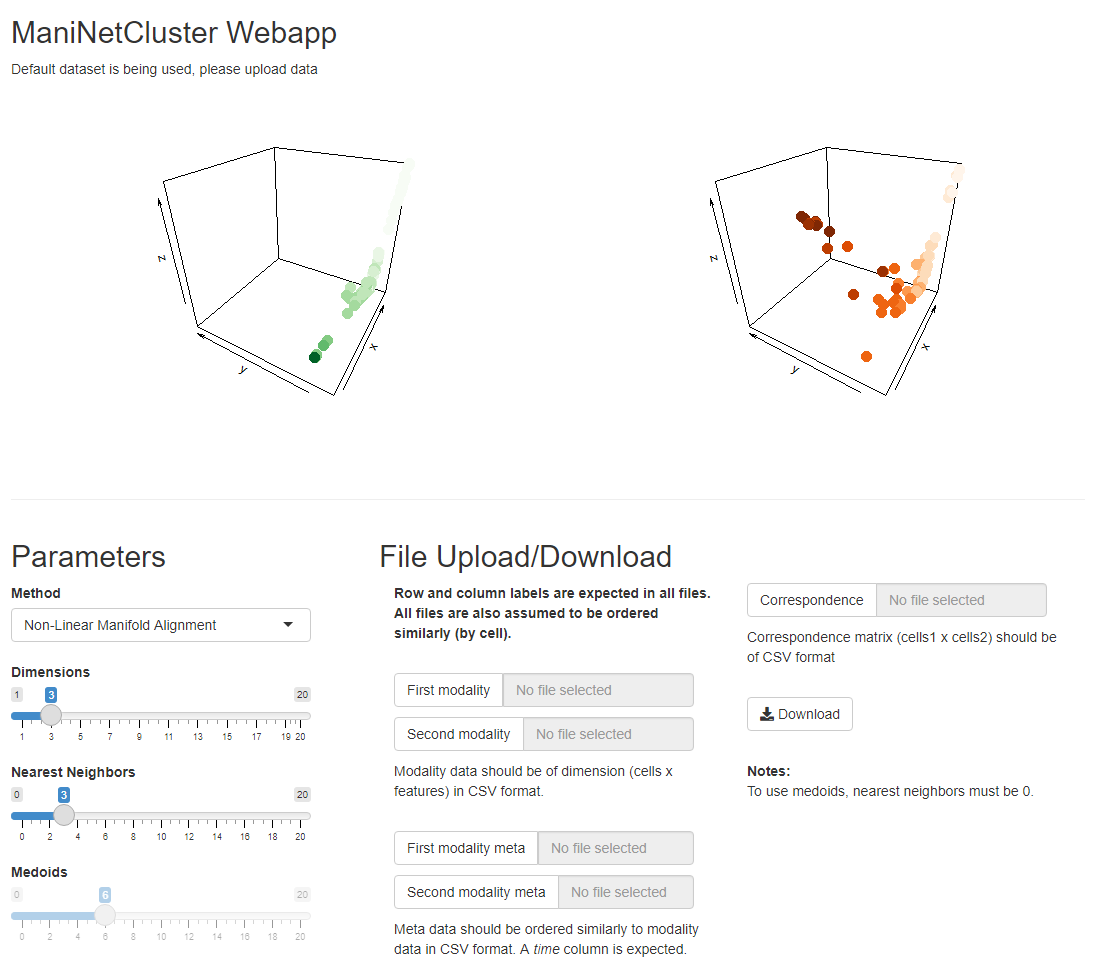
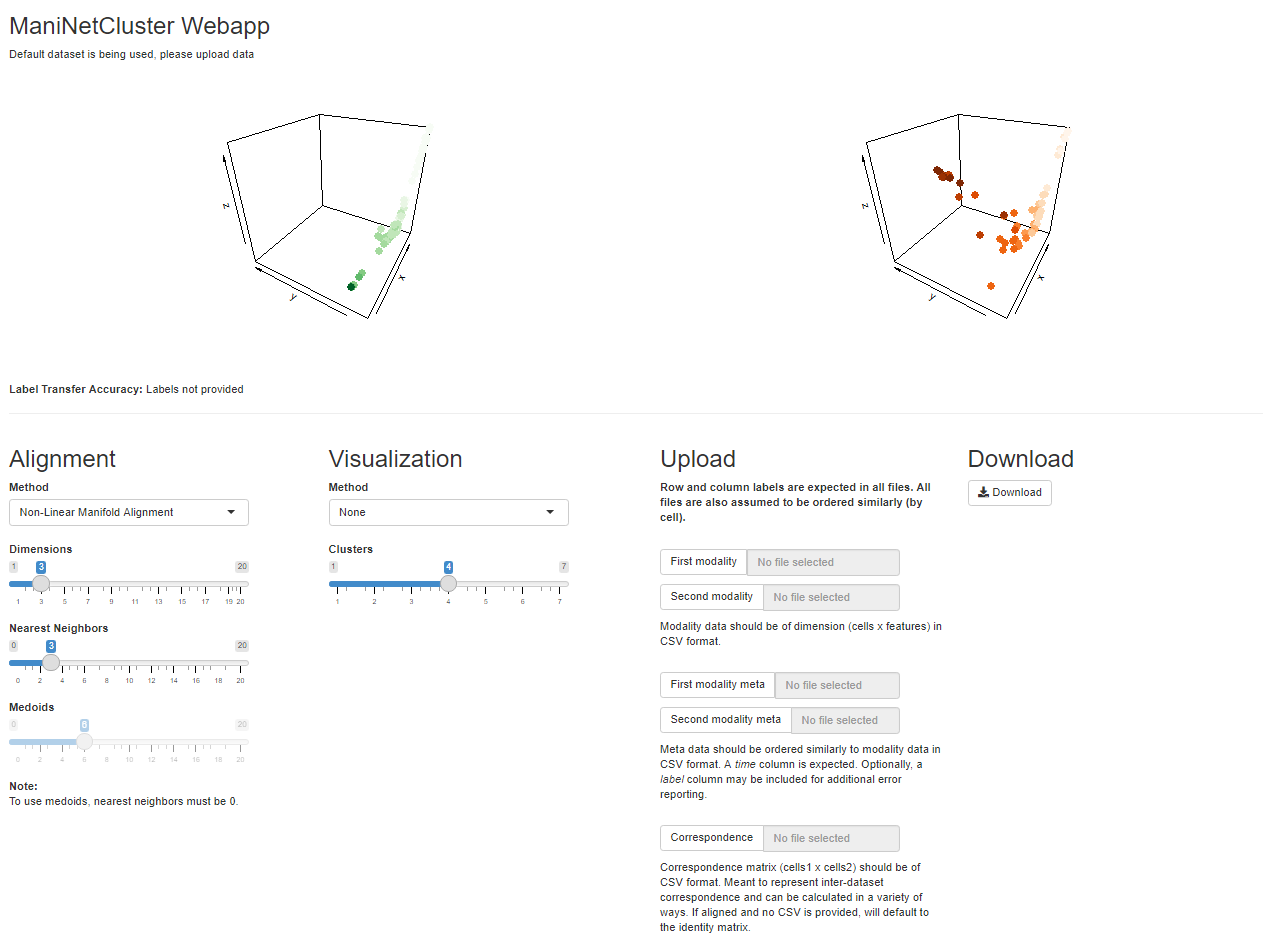
QOL, clustering, accuracy metrics

diff --git a/README.md b/README.md
@@ -1,6 +1,6 @@
 # ManiNetCluster Visualization
 
-`site.R` is an R Shiny application to visualize aligned datasets.  Multiple parameters are present along with a live 3D visualization.
+`site.R` is an R Shiny application to visualize aligned datasets.  Multiple tunable alignment and visualization parameters are present along with a live 3D view.
 
 ![UI example on sample data](./images/ui.png)
 
@@ -9,3 +9,4 @@
 
 ## Known Issues
 - Sample data does not work with medoid calculation.
+- Sample data does not include `label` metadata.

diff --git a/CHANGELOG.md b/CHANGELOG.md
@@ -1,0 +1,10 @@
+# 1.1.0
+- More QOL notes and default changes
+- Enhanced explanations
+- Spread out UI
+- `Visualization` clustering section added with `K-Means` and `PAM` methods
+- Optional `label transfer accuracy` calculation added
+
+# 1.0.0
+- Initial Release
+- Main UI, dynamic parameter selection, basic upload/download
